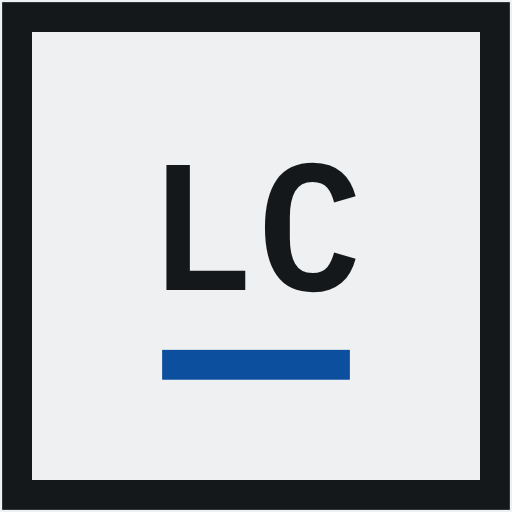
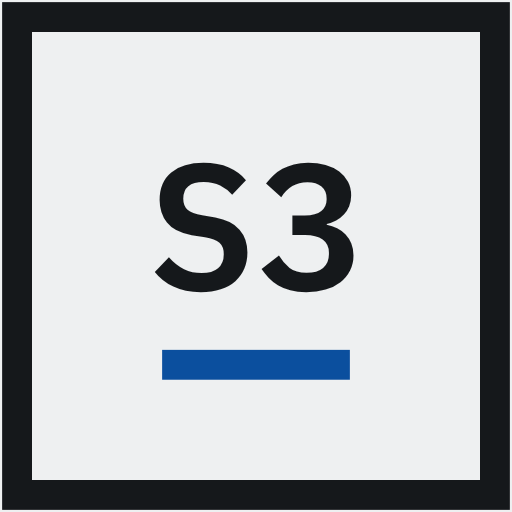
Renomme le service en Stratis 3D
Le litige sur « LayerCraft » se dénoue par l'abandon du nom. Le moment est
le moins coûteux possible : aucune vente, aucun client, aucun
référencement acquis.

`lib/site.ts` porte le nouveau nom et la nouvelle adresse de contact, d'où
il se propage au site, aux emails, au SEO et aux données structurées. Le
monogramme de la marque passe de LC à S3, dans les deux sources SVG et
dans l'en-tête ; icônes, favicon, logotype et image Open Graph sont
régénérés.

Les noms d'infrastructure — conteneurs, volume, réseau Docker, dossier du
serveur — gardent `layercraft`. Ce sont des identifiants techniques
invisibles des clients, et les renommer imposerait de recréer les volumes
et de reprendre la configuration du reverse proxy : à faire en une fois,
lors d'une fenêtre de maintenance. Une note le signale dans la
documentation de déploiement.

Reste à faire hors dépôt : déposer stratis3d.fr, créer l'adresse d'envoi
et la vérifier chez Resend, mettre à jour NEXT_PUBLIC_SITE_URL, les hôtes
du reverse proxy, le webhook Stripe et la Search Console.

Claude-Session: https://claude.ai/code/session_015CMd9wULHgvptp7V71x8TH

diff --git a/lib/site.ts b/lib/site.ts
@@ -3,11 +3,11 @@
  * zone desservie. Repris dans le footer, les emails, le SEO et le JSON-LD.
  */
 export const site = {
-  nom: "LayerCraft",
+  nom: "Stratis 3D",
   baseline: "Impression 3D sur mesure, partout en France",
   description:
     "Service d'impression 3D en ligne : devis immédiat, conseil technique, conception et impression de pièces sur mesure en PLA, PETG, ASA et TPU. Livraison partout en France.",
-  email: "devis@layercraft.fr",
+  email: "devis@stratis3d.fr",
   telephone: "+33 7 82 49 87 35",
   adresse: {
     rue: "235 chemin de Bezaton",

diff --git a/components/Header.tsx b/components/Header.tsx
@@ -33,7 +33,7 @@ export function Header() {
               fill="#0b4f9e"
               textAnchor="middle"
             >
-              LC
+              S3
             </text>
             <path d="M32 106h56" stroke="#15181b" strokeWidth="7" strokeLinecap="square" />
           </svg>

diff --git a/docs/DEMARRAGE.md b/docs/DEMARRAGE.md
@@ -101,6 +101,13 @@ galerie affiche alors le visuel de repli. Téléversez de vraies photos depuis
 
 ## Déploiement VPS
 
+> **Noms internes.** Les conteneurs, le volume de données, le réseau Docker
+> et le dossier du serveur portent encore `layercraft`, nom du projet à sa
+> création. Ce sont des identifiants techniques, invisibles des clients, et
+> les renommer imposerait de recréer les volumes et de reprendre la
+> configuration du reverse proxy. À faire en une fois, lors d'une fenêtre
+> de maintenance, pas au fil de l'eau.
+
 Deux domaines sont nécessaires : l'application et un sous-domaine pour les
 fichiers. Les presigned URLs sont signées sur le domaine public et la signature
 couvre l'en-tête `Host` — sans ce sous-domaine, les aperçus STL et les images
